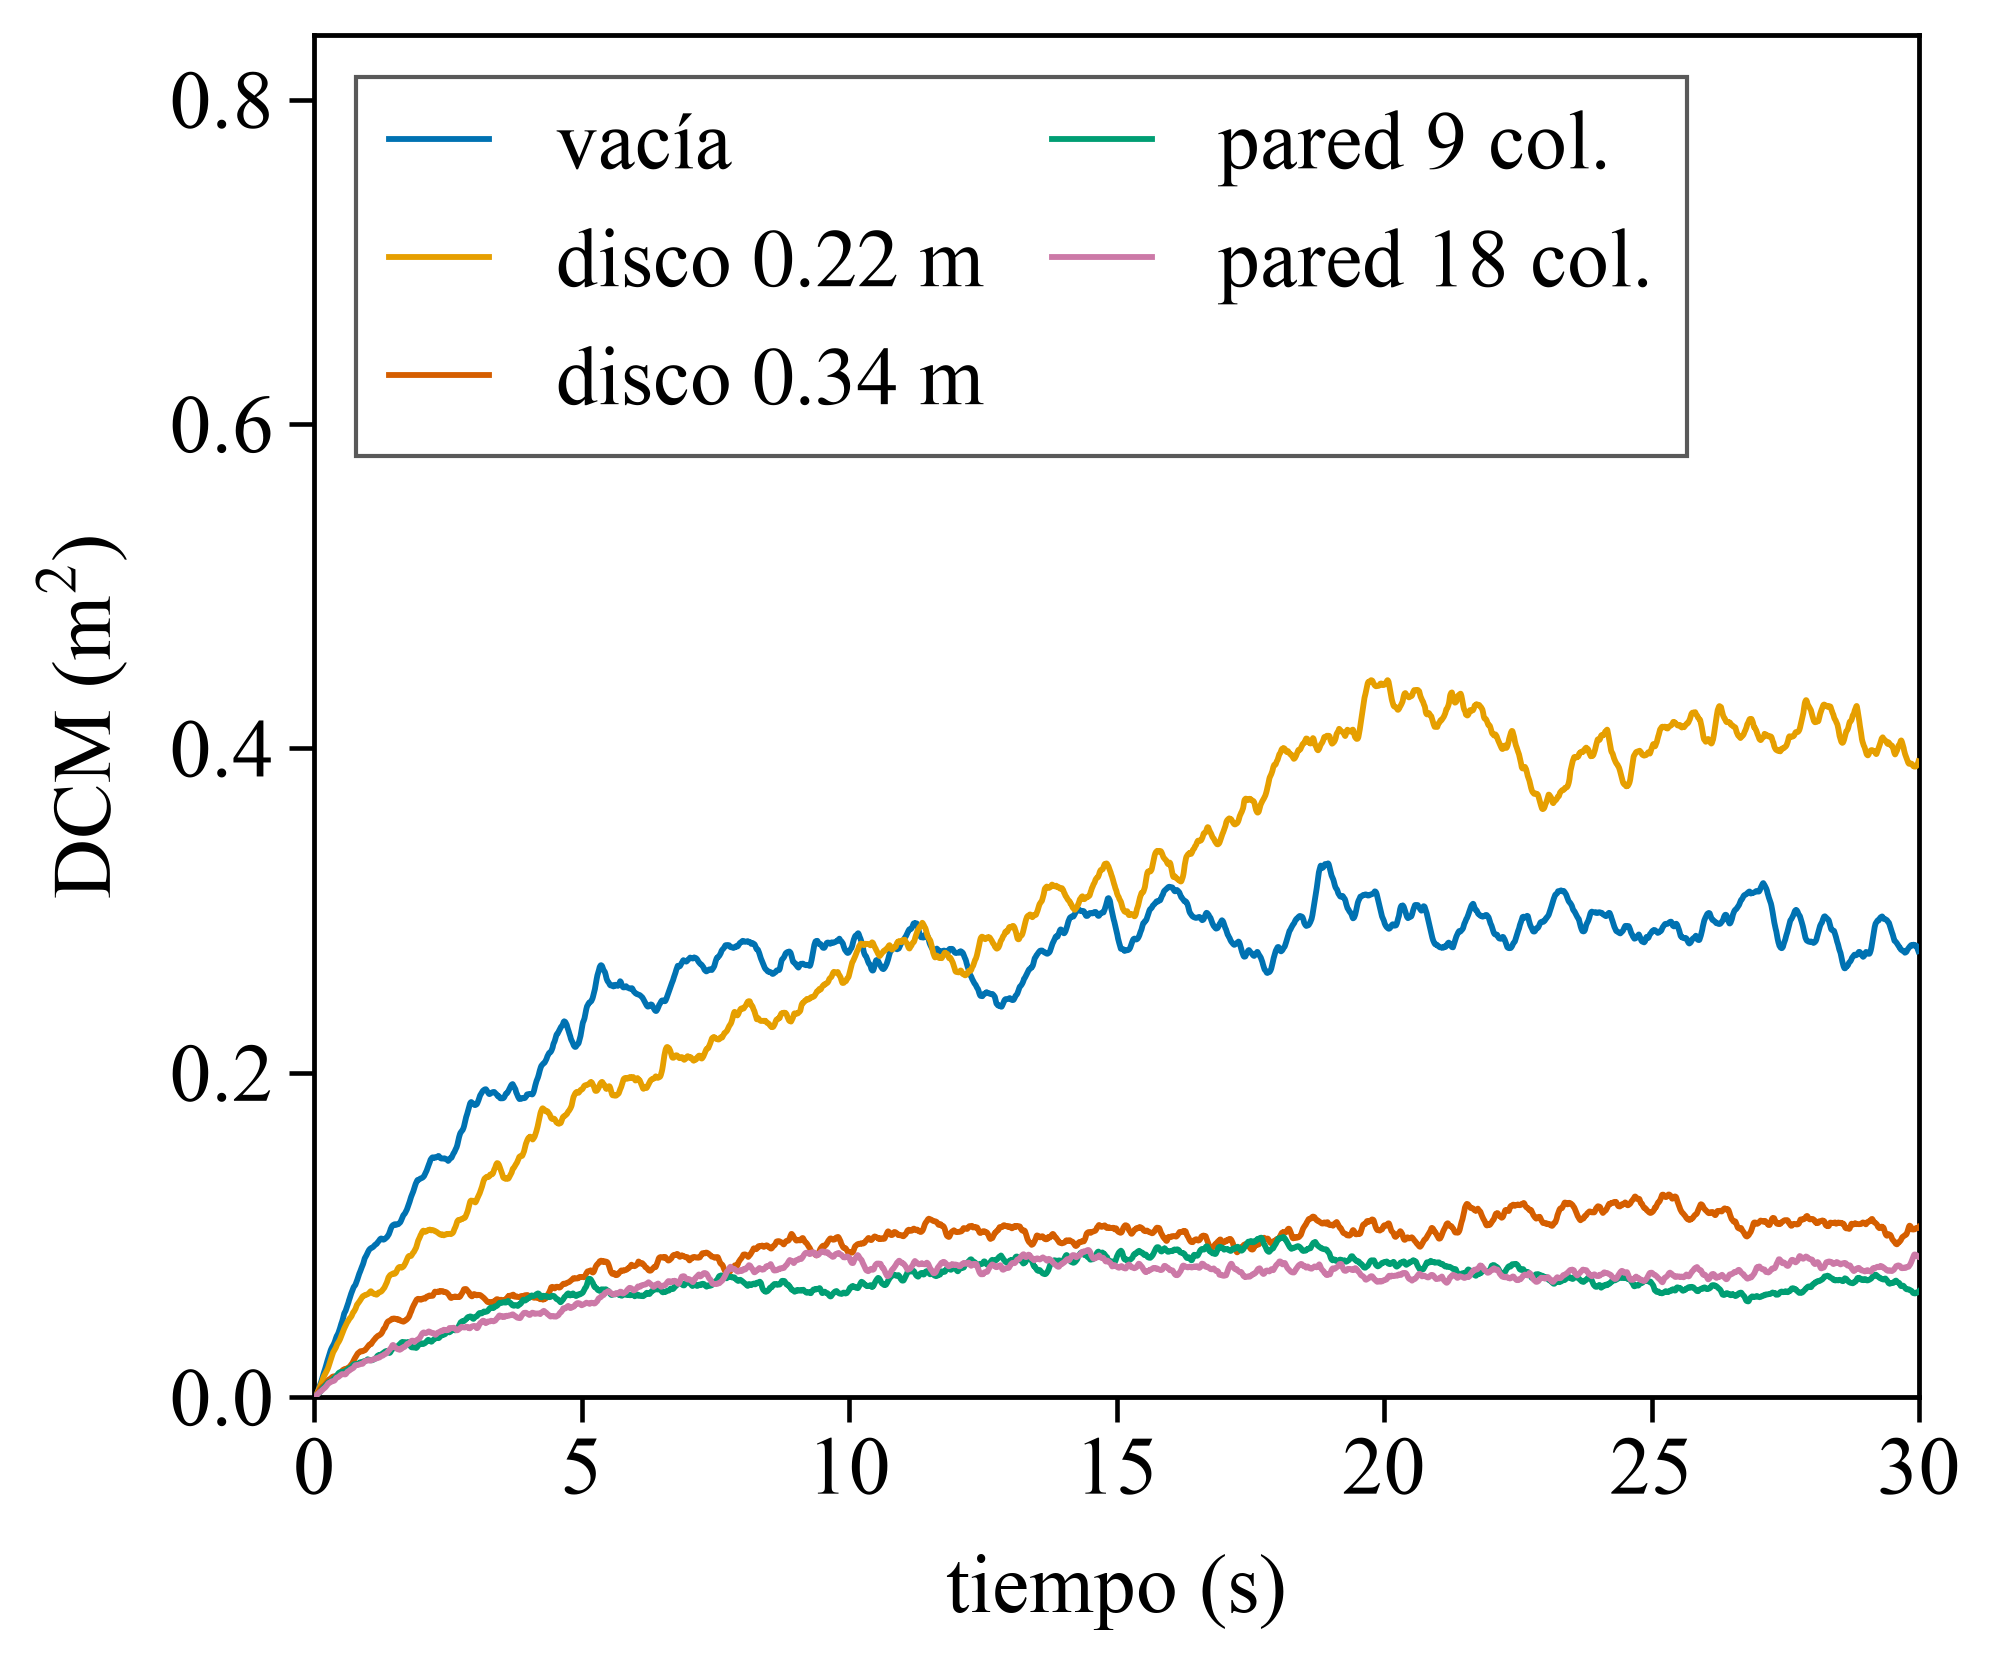
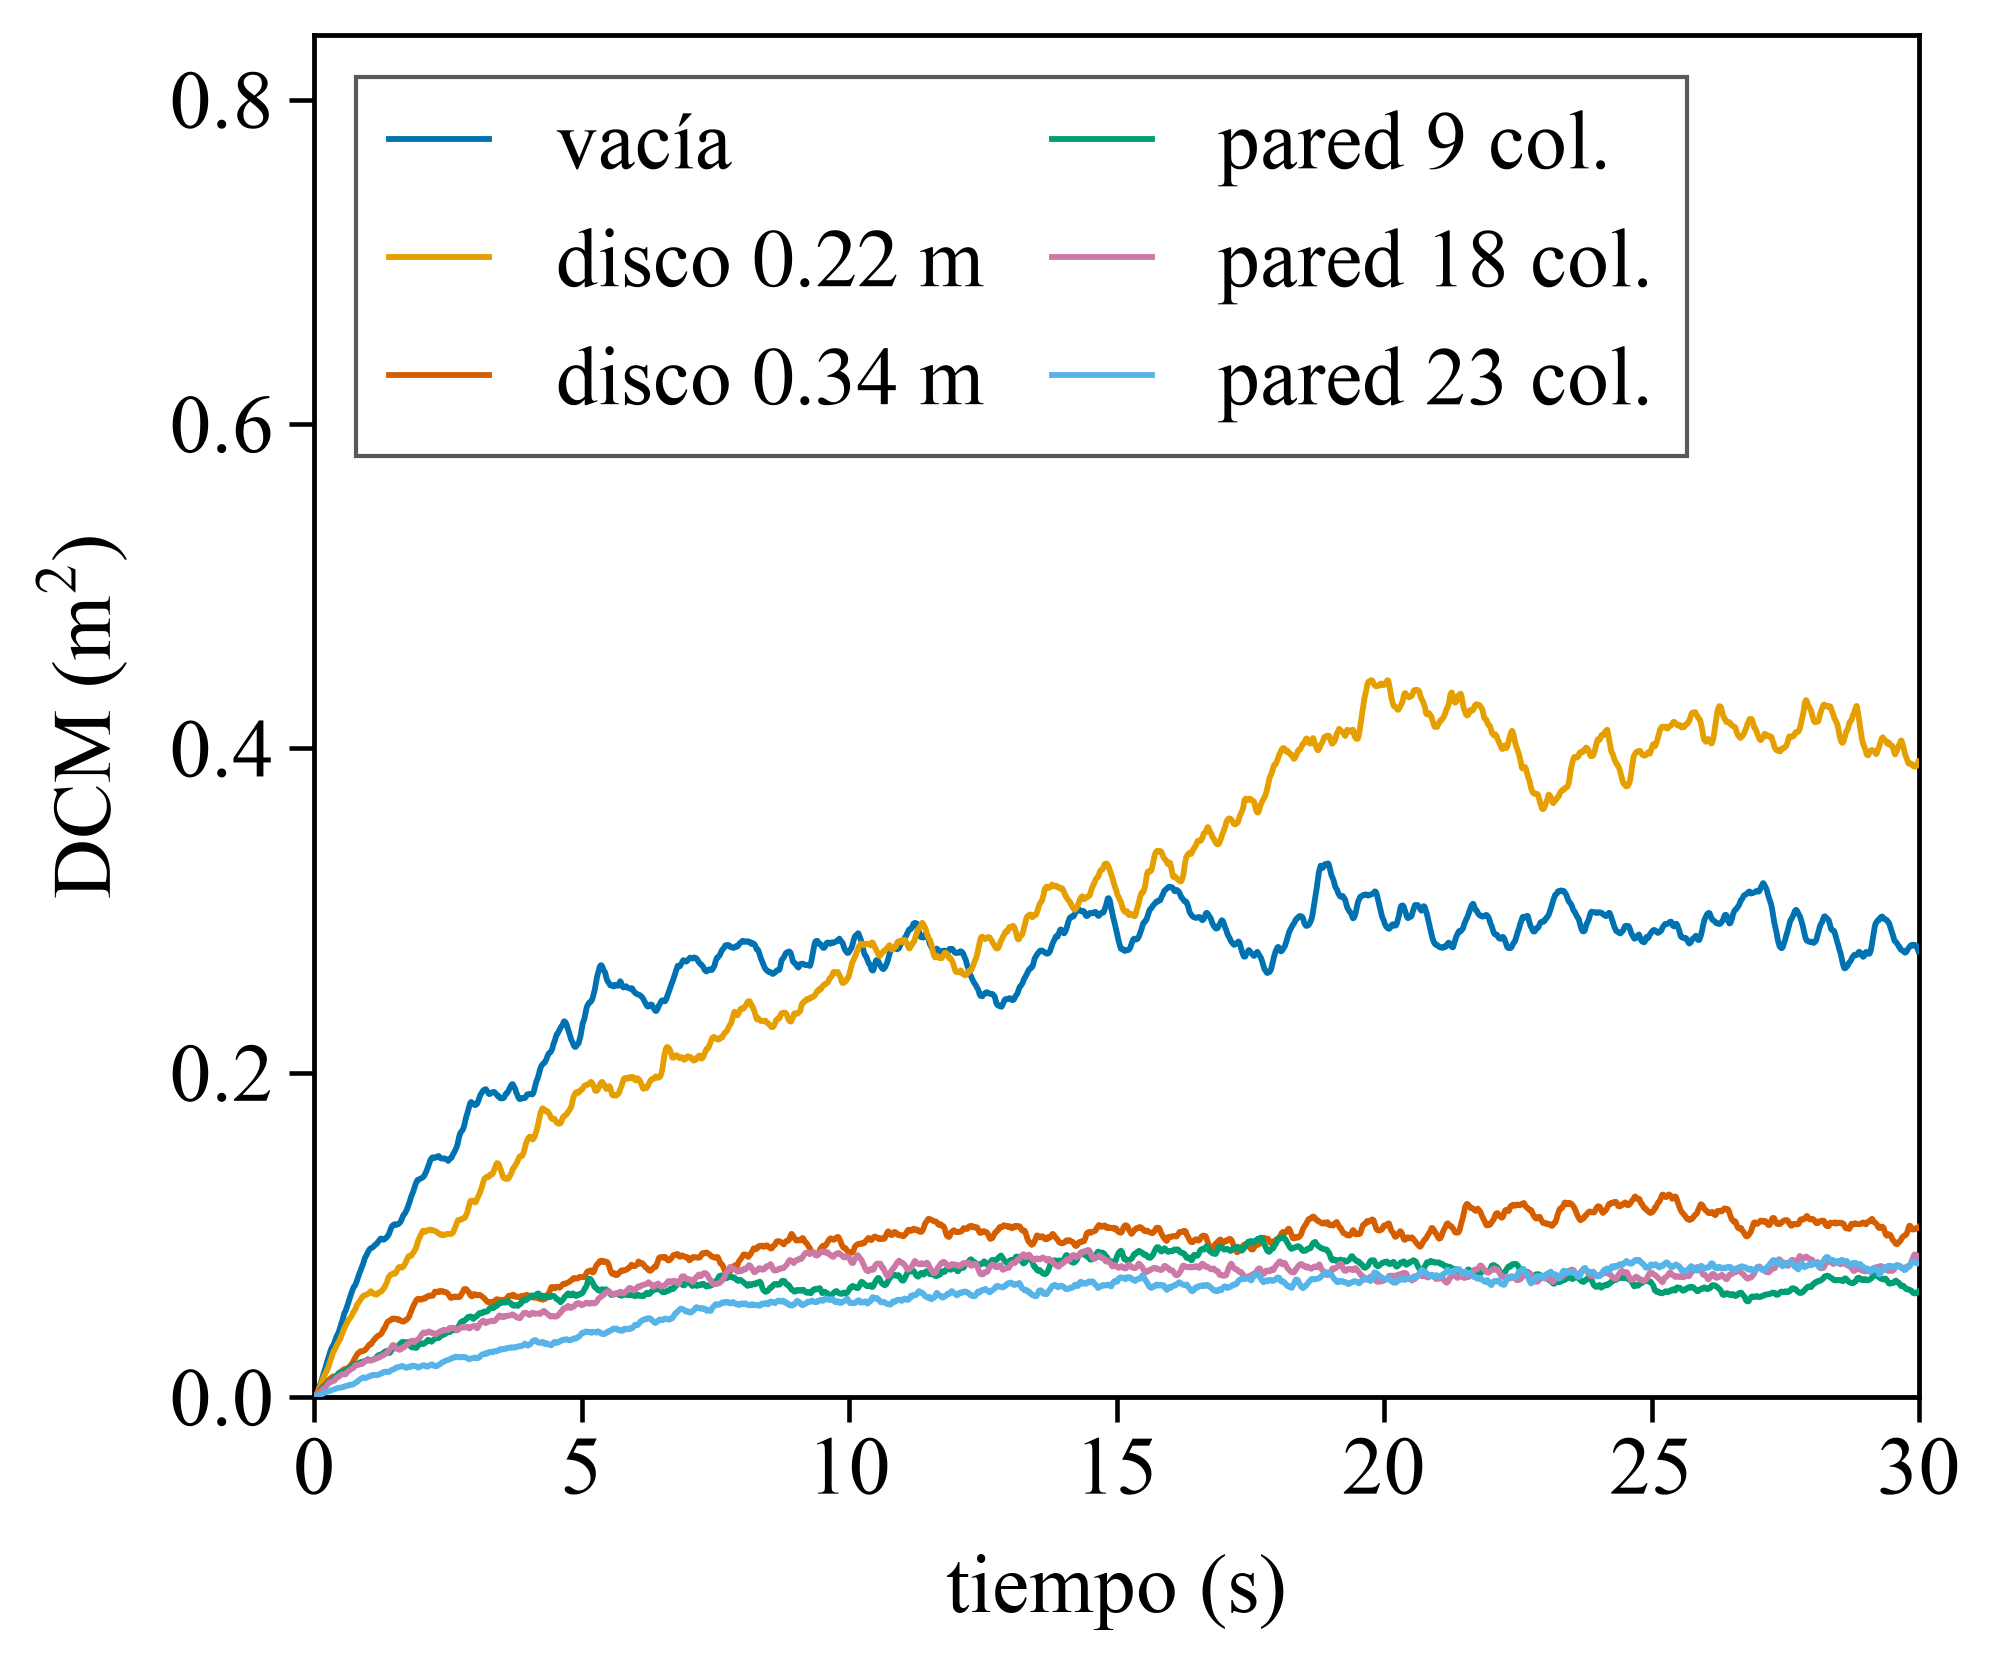
mas dcm

diff --git a/python/dcm_report.py b/python/dcm_report.py
@@ -62,12 +62,13 @@ CONFIGS = [
     ("disco", r"disco $R = 0.34$ m", "discogrande", "sí", VERMILLION, 16.96, 1.99),
     ("pared_9", "pared de 9 columnas", "paredA", "sí", GREEN, 14.21, 1.41),
     ("pared_18", "pared de 18 columnas", "paredB", "sí", PURPLE, 13.67, 1.31),
+    ("pared_23", "pared de 23 columnas", "paredC", "sí", "#56B4E9", 17.0065, 1.66604),
 ]
 SHORT = {"vacia": "vacía", "disco_022": r"disco $0.22$ m", "disco": r"disco $0.34$ m",
-         "pared_9": "pared 9 col.", "pared_18": "pared 18 col."}
+         "pared_9": "pared 9 col.", "pared_18": "pared 18 col.", "pared_23": "pared 23 col."}
 TABLE_NAMES = {"vacia": "mesa vacía", "disco_022": r"disco, $R = 0.22\,\mathrm{m}$",
                "disco": r"disco, $R = 0.34\,\mathrm{m}$", "pared_9": "pared, 9 columnas",
-               "pared_18": "pared, 18 columnas"}
+               "pared_18": "pared, 18 columnas", "pared_23": "pared, 23 columnas"}
 
 
 def read_cuts() -> dict[str, float]:
@@ -190,15 +191,15 @@ def main() -> None:
     (PRES / "dcm_valores.tex").write_text("\n".join(macros) + "\n", encoding="utf-8")
 
     table = [macros[0],
-             r"\begin{tabular}{lccccc}",
+             r"\begin{tabular}{lccc}",
              r"  \hline",
-             r"  configuración & divide la mesa & $t_m$ (s) & $D$ (m$^{2}$/s) & meseta (m$^{2}$) & $\langle t_{90}\rangle$ (s) \\",
+             r"  configuración & $t_m$ (s) & $D$ (m$^{2}$/s) & $\langle t_{90}\rangle$ (s) \\",
              r"  \hline"]
     for r in rows:
         v, e = rounded(r["d_ex"], r["sd"])
         pv, pe = rounded(r["pl_ex"], r["pl_sd"])
         tv, te = rounded(r["t90"], r["t90_sd"])
-        table.append(rf"  {TABLE_NAMES[r['c']]} & {r['divides']} & ${r['tm']:g}$ & ${v} \pm {e}$ & ${pv} \pm {pe}$ & ${tv} \pm {te}$ \\")
+        table.append(rf"  {TABLE_NAMES[r['c']]} & ${r['tm']:g}$ & ${v} \pm {e}$ & ${tv} \pm {te}$ \\")
     table += [r"  \hline", r"\end{tabular}"]
     (PRES / "dcm_tabla.tex").write_text("\n".join(table) + "\n", encoding="utf-8")
 
@@ -272,12 +273,12 @@ def main() -> None:
 
     # D frente a <t90>: D de la realización única ± desvío entre realizaciones; <t90> ± desvío
     fig, ax = new_figure()
-    for r, mk in zip(rows, MARKERS * 2):
+    for r, mk in zip(rows, tuple(MARKERS) + ("P", "X")):
         ax.errorbar(r["t90"], r["d_ex"], xerr=r["t90_sd"], yerr=r["sd"], color=r["color"], marker=mk, markersize=8,
                     markeredgecolor="black", markeredgewidth=0.6, linestyle="none", capsize=4, zorder=3,
                     label=r["label"])
     style_axes(ax, r"$\langle t_{90}\rangle$ (s)", r"$D$ (m$^2$/s)")
-    ax.set_ylim(0, max(r["d_ex"] + r["sd"] for r in rows) * 2.0)
+    ax.set_ylim(0, max(r["d_ex"] + r["sd"] for r in rows) * 2.7)
     apply_sci_axis(ax, "y")
     ax.legend(loc="upper left", frameon=True)
     save_figure(fig, OUT / "d_vs_t90.png")

diff --git a/docs/presentation/dcm_tabla.tex b/docs/presentation/dcm_tabla.tex
@@ -1,12 +1,13 @@
 % Generado por python/dcm_report.py (docs/results/1.3/cortes.txt). No editar a mano.
-\begin{tabular}{lccccc}
+\begin{tabular}{lccc}
   \hline
-  configuración & divide la mesa & $t_m$ (s) & $D$ (m$^{2}$/s) & meseta (m$^{2}$) & $\langle t_{90}\rangle$ (s) \\
+  configuración & $t_m$ (s) & $D$ (m$^{2}$/s) & $\langle t_{90}\rangle$ (s) \\
   \hline
-  mesa vacía & no & $6$ & $0.0098 \pm 0.0014$ & $0.284 \pm 0.015$ & $24 \pm 3$ \\
-  disco, $R = 0.22\,\mathrm{m}$ & no & $20$ & $0.0044 \pm 0.0007$ & $0.41 \pm 0.04$ & $20 \pm 3$ \\
-  disco, $R = 0.34\,\mathrm{m}$ & sí & $10$ & $0.0019 \pm 0.0002$ & $0.105 \pm 0.005$ & $17.0 \pm 2.0$ \\
-  pared, 9 columnas & sí & $4$ & $0.0035 \pm 0.0005$ & $0.075 \pm 0.003$ & $14.2 \pm 1.4$ \\
-  pared, 18 columnas & sí & $9$ & $0.0020 \pm 0.0003$ & $0.079 \pm 0.006$ & $13.7 \pm 1.3$ \\
+  mesa vacía & $6$ & $0.0098 \pm 0.0014$ & $24 \pm 3$ \\
+  disco, $R = 0.22\,\mathrm{m}$ & $20$ & $0.0044 \pm 0.0007$ & $20 \pm 3$ \\
+  disco, $R = 0.34\,\mathrm{m}$ & $10$ & $0.0019 \pm 0.0002$ & $17.0 \pm 2.0$ \\
+  pared, 9 columnas & $4$ & $0.0035 \pm 0.0005$ & $14.2 \pm 1.4$ \\
+  pared, 18 columnas & $9$ & $0.0020 \pm 0.0003$ & $13.7 \pm 1.3$ \\
+  pared, 23 columnas & $8$ & $0.0017 \pm 0.0003$ & $17.0 \pm 1.7$ \\
   \hline
 \end{tabular}

diff --git a/docs/presentation/dcm_pendiente.tex b/docs/presentation/dcm_pendiente.tex
@@ -8,5 +8,6 @@
   disco, $R = 0.34\,\mathrm{m}$ & $1.24$ & $0.89$ & $0.72$ & $0.84$ & $0.47$ & $0.44$ \\
   pared, 9 columnas & $1.11$ & $1.13$ & $0.82$ & $0.69$ & $0.58$ & $0.41$ \\
   pared, 18 columnas & $1.15$ & $1.00$ & $0.81$ & $0.64$ & $0.60$ & $0.55$ \\
+  pared, 23 columnas & $1.00$ & $0.83$ & $0.71$ & $0.92$ & $0.68$ & $0.50$ \\
   \hline
 \end{tabular}

diff --git a/docs/presentation/dcm_valores.tex b/docs/presentation/dcm_valores.tex
@@ -14,5 +14,8 @@
 \newcommand{\DcmDparedB}{0.0020 \pm 0.0003}
 \newcommand{\DcmCorteparedB}{9}
 \newcommand{\DcmRangoparedB}{0.0016\text{--}0.0023}
+\newcommand{\DcmDparedC}{0.0017 \pm 0.0003}
+\newcommand{\DcmCorteparedC}{8}
+\newcommand{\DcmRangoparedC}{0.0015\text{--}0.0017}
 \newcommand{\DcmDejemplo}{0.0098}
 \newcommand{\DcmMesetavacia}{0.284 \pm 0.015}
